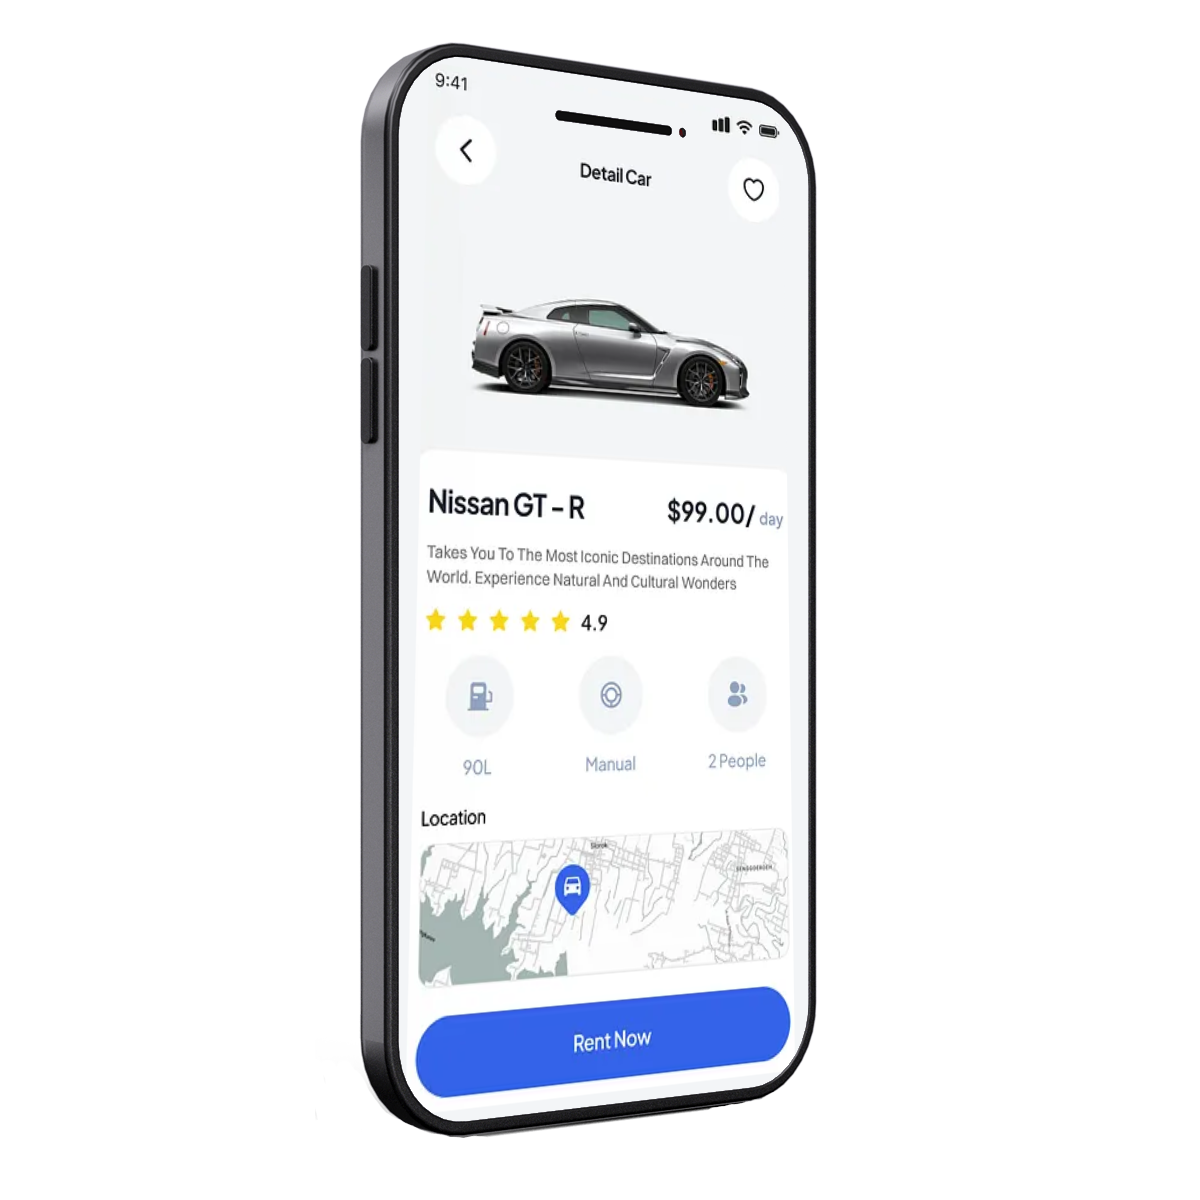
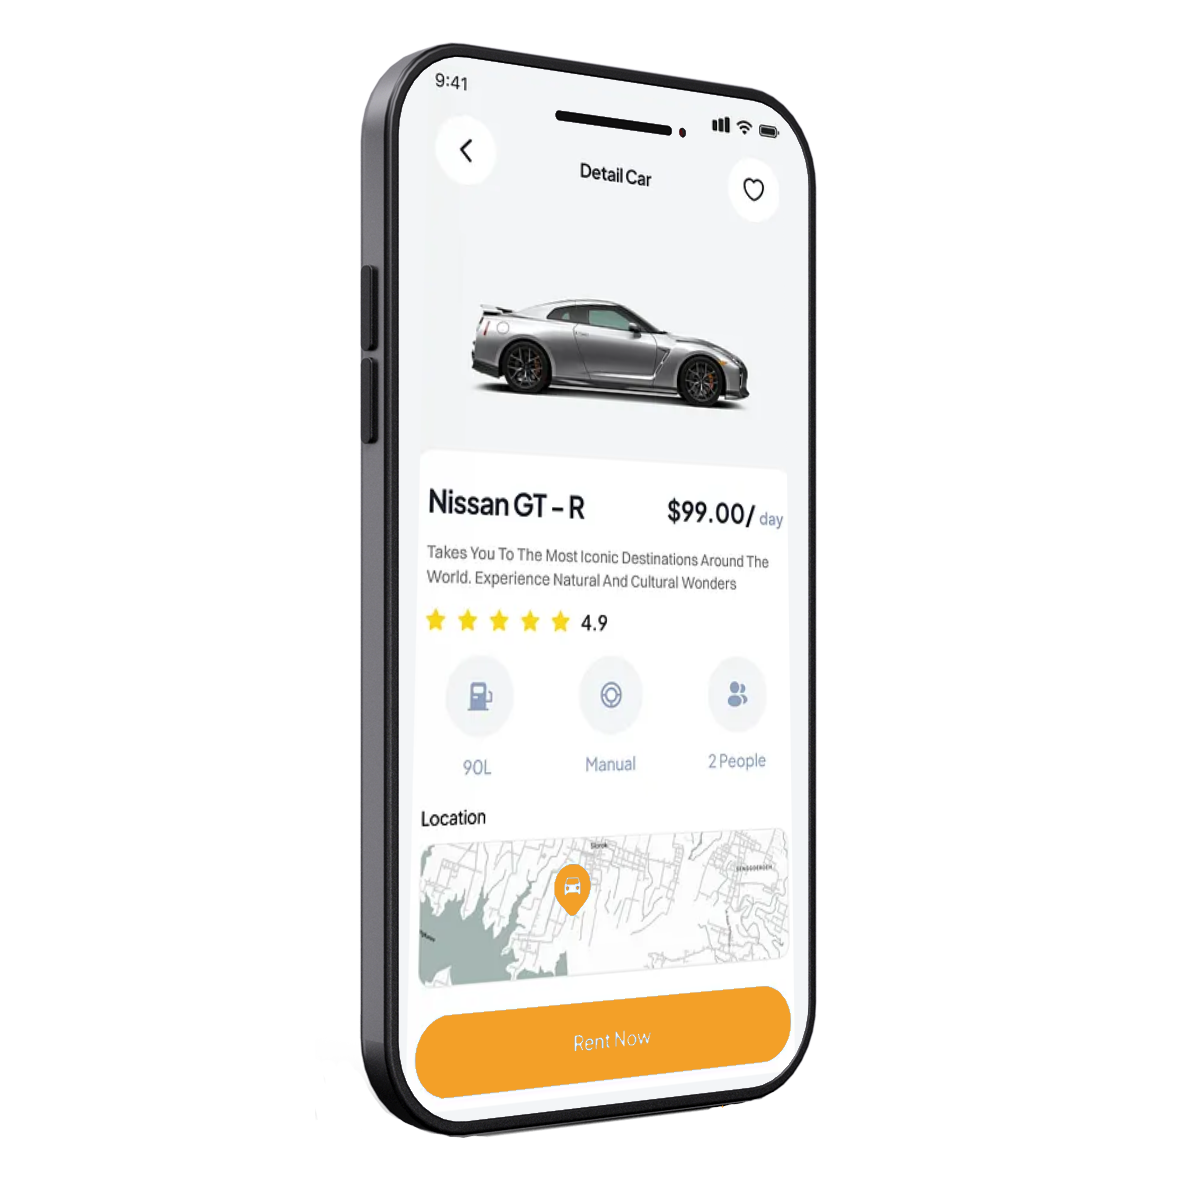
update images, enhance event logging, improve error messaging, and refine styles for consistency

Changed region(s): [[0.3392, 0.8017, 0.6783, 0.925], [0.4625, 0.7092, 0.4933, 0.7708]]

diff --git a/home/index.html b/home/index.html
@@ -46,7 +46,7 @@
             <header class="plat-filter-head flex-col center-start">
                 <div class="flex-row center-spacebet" style="width: 100%; padding: 0.625rem 1rem;">
                     <h1 class="title-sml">Filter by</h1>
-                    <button class="bt bt-hover reset-but" id="filterReset">Reset All <i class="fa-solid fa-xmark"></i></button>
+                    <button class="bt bt-hover reset-but" id="filterReset" title="Remove filter">Reset All <i class="fa-solid fa-xmark"></i></button>
                 </div>
                 <div class="input-holder flex-row" style="width: 90%;">
                     <i class="fa-solid fa-magnifying-glass"></i>
@@ -54,27 +54,27 @@
                 </div>
             </header>
             <section class="plat-filter-body flex-col">
-                <details class="rental-type">
-                    <summary class="title-sml">RENTAL TYPE</summary>
+                <details class="rental-type" open>
+                    <summary class="title-sml bt-hover">RENTAL TYPE</summary>
                     <div class="flex-row rental-types">
-                        <label for="rentalA" class="rnt">Any</label>
-                        <input type="radio" name="rnt" id="rentalA" class="r-type" hidden>
-                        <label for="rentalD" class="rnt">Per day</label>
+                        <input type="radio" name="rnt" id="rentalA" class="r-type" hidden checked>
+                        <label for="rentalA" class="rnt bt-hover">Any</label>
                         <input type="radio" name="rnt" id="rentalD" class="r-type" hidden>
-                        <label for="rentalH" class="rnt">Per hour</label>
+                        <label for="rentalD" class="rnt bt-hover">Per day</label>
                         <input type="radio" name="rnt" id="rentalH" class="r-type" hidden>
+                        <label for="rentalH" class="rnt bt-hover">Per hour</label>
                     </div>
                 </details>
                 <div class="break-line"></div>
                 <div class="flex-row center-spacebet available">
-                    <p class="title-sml">AVAILABLE NOW ONLY</p>
+                    <label for="stch" class="title-sml bt-hover">AVAILABLE NOW ONLY</label>
                     <label class="switch">
-                        <input type="checkbox" hidden>
+                        <input id="stch" type="checkbox" hidden>
                         <span class="slider"></span>
                     </label>
                 </div>
                 <div class="break-line"></div>
-                <details class="filter-price">
+                <details class="filter-price bt-hover">
                     <summary class="title-sml">PRICE RANGE/HOUR</summary>
                     <div class="flex-col price-range">
                         <div id="slider">
@@ -93,15 +93,15 @@
                 </details>
                 <div class="break-line"></div>
                 <details class="filter-brand">
-                    <summary class="title-sml">CAR BRAND</summary>
+                    <summary class="title-sml bt-hover">CAR BRAND</summary>
                 </details>
                 <div class="break-line"></div>
                 <details class="filter-modal">
-                    <summary class="title-sml">CAR MODEL & YEAR</summary>
+                    <summary class="title-sml bt-hover">CAR MODEL & YEAR</summary>
                 </details>
                 <div class="break-line"></div>
                 <details class="filter-style">
-                    <summary class="title-sml">BODY STYLE</summary>
+                    <summary class="title-sml bt-hover">BODY STYLE</summary>
                     <div class="flex-row flex-wrap">
                         <div class="flex-row check-holder checkbox-wrapper-13">
                             <label for="sport">Sport</label>
@@ -131,7 +131,7 @@
                 </details>
                 <div class="break-line"></div>
                 <details class="filter-transmission">
-                    <summary class="title-sml">TRANSMISSION</summary>
+                    <summary class="title-sml bt-hover">TRANSMISSION</summary>
                     <div class="flex-col transms">
                         <div class="flex-row radio-holder">
                             <label for="transAny">Any</label>
@@ -149,7 +149,7 @@
                 </details>
                 <div class="break-line"></div>
                 <details class="filter-fuel">
-                    <summary class="title-sml">FUEL TYPE</summary>
+                    <summary class="title-sml bt-hover">FUEL TYPE</summary>
                     <div class="flex-row flex-wrap">
                         <div class="flex-row check-holder checkbox-wrapper-13">
                             <label for="deisel">Deisel</label>

diff --git a/style/platform.css b/style/platform.css
@@ -47,6 +47,10 @@
     left: 0;
 }
 
+.plat-logout{
+    color: var(--color-second);
+}
+
 .plat-nav-selected,
 .plat-nav-element:hover:not(.logout){
     color: var(--color-main);
@@ -71,7 +75,6 @@
     width: 20em;
     height: 100%;
     overflow: hidden;
-    overflow-y: auto;
     background-color: var(--container);
 }
 
@@ -83,8 +86,68 @@
 
 .plat-filter-head{
     width: 100%;
+    height: 6em;
 }
 
 .reset-but{
     color: var(--text-low);
+}
+
+.plat-filter-body{
+    width: 100%;
+    height: calc(100% - 6em);
+    overflow: hidden;
+    overflow-y: auto;
+    padding: 1.25rem;
+}
+
+summary {
+    list-style: none;
+    display: flex;
+    justify-content: space-between;
+    align-items: center;
+    font-weight: bold;
+    cursor: pointer;
+}
+
+summary::after {
+    content: '<';
+    width: 10px;
+    display: flex;
+    align-items: center;
+    justify-content: center;
+    height: 10px; 
+    transform: rotateZ(90deg);
+    transition: 0.2s;
+    color: var(--color-main);
+}
+
+details[open] > summary::after {
+    transform-box: fill-box;
+    transform-origin: 50% 50%;
+    transform: rotate(-90deg);
+}
+
+details{
+    width: 100%;
+    transition: all ease 0.5s;
+}
+
+.rnt{
+    color: var(--text);
+    font-size: var(--font-sml);
+    border: 1px solid var(--border-low);
+    padding: .3125rem .625rem;
+    border-radius: 0.5rem;
+    margin: 0.8em 0.6em 0 0;
+    cursor: pointer;
+}
+
+input[type='radio']:checked + .rnt{
+    background-color: var(--color-second);
+    color: white;
+}
+
+.available *{
+    cursor: pointer;
 }

diff --git a/style/main.css b/style/main.css
@@ -354,7 +354,7 @@ p,span{
 .bt-hover:hover{
     opacity: 0.8;
     transform: scale(1.02);
-    transition: ease 0.3s;
+    transition: ease 0.5s;
     cursor: pointer;
 }
 
@@ -440,14 +440,14 @@ input[type="time"]::-webkit-calendar-picker-indicator{
 
 /* The switch - the box around the slider */
 .switch {
-    --button-width: 2.8em;
-    --button-height: 1.5em;
-    --toggle-diameter: 1em;
+    --button-width: 2em;
+    --button-height: 1em;
+    --toggle-diameter: 0.6em;
     --button-toggle-offset: calc((var(--button-height) - var(--toggle-diameter)) / 2);
     --toggle-shadow-offset: 10px;
-    --toggle-wider: 2.5em;
+    --toggle-wider: 1.5em;
     --color-grey: var(--bg-darker);
-    --color-green: var(--color-main);
+    --color-green: var(--color-second);
 }
    
 .slider {

diff --git a/style/checkbox.css b/style/checkbox.css
@@ -1,10 +1,10 @@
 @supports (-webkit-appearance: none) or (-moz-appearance: none) {
     .checkbox-wrapper-13 input[type=checkbox] {
-      --active: #275EFE;
+      --active: var(--color-main);
       --active-inner: #fff;
       --focus: 2px rgba(39, 94, 254, .3);
       --border: var(--border);
-      --border-hover: #275EFE;
+      --border-hover: var(--color-second);
       --background: var(--bg);
       --disabled: #F6F8FF;
       --disabled-inner: #E1E6F9;
@@ -94,5 +94,10 @@
   .checkbox-wrapper-13 *:before,
   .checkbox-wrapper-13 *:after {
     box-sizing: inherit;
+  }
+  .checkbox-wrapper-13{
+    display: flex;
+    align-items: center;
+    justify-content: center;
   }
   

diff --git a/js/login.js b/js/login.js
@@ -72,7 +72,7 @@ document.getElementById("signUpForm").addEventListener("submit", async function 
             throw new Error(data.error || "Failed to send email");
         }
     } catch (error) {
-        pushNotif("e", error.message)
+        pushNotif("e", "Somthing went wrong! Try again later")
         closeLoader()
     }
   } else {

diff --git a/js/platform.js b/js/platform.js
@@ -18,3 +18,7 @@ let slider = new RangeSliderPips({
     handleFormatter: (v) => v,
   }
 });
+
+sliderElement.addEventListener("change", (e)=>{
+    console.log(e.detail)
+})
